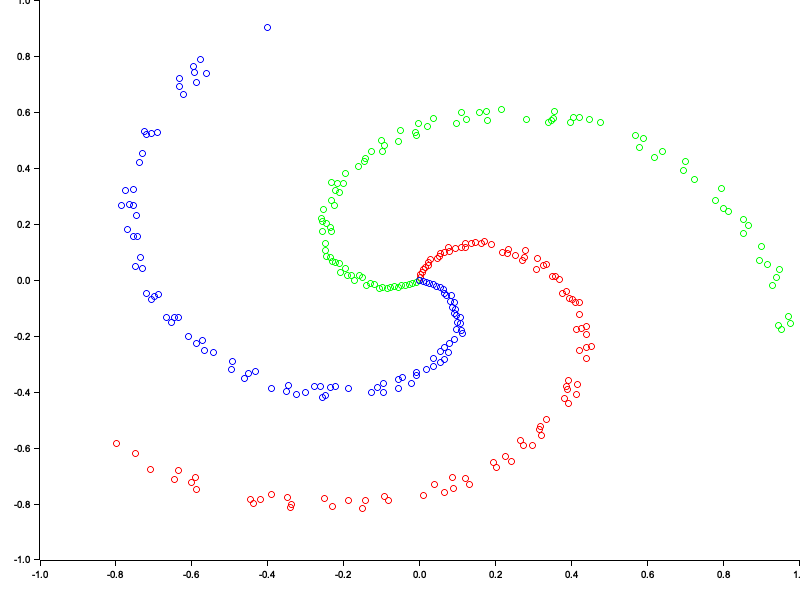
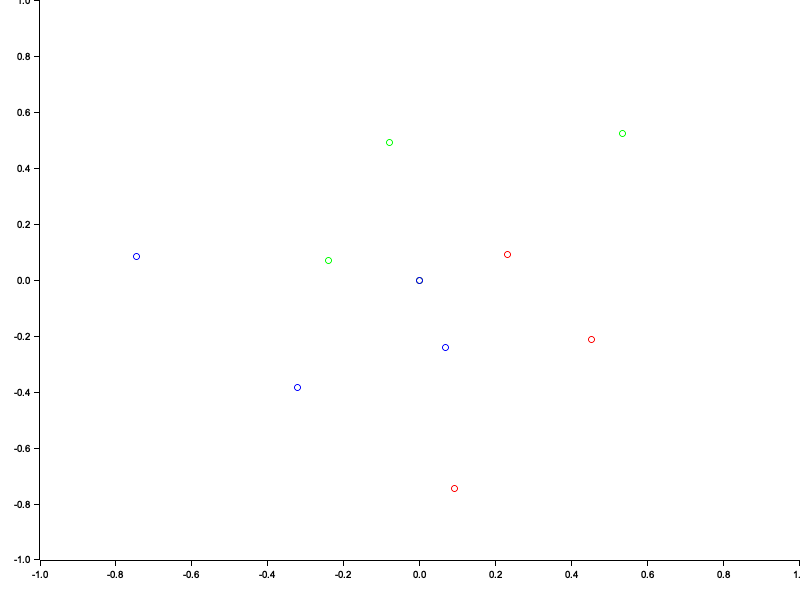
Fix input size + variable input size

diff --git a/src-tauri/src/main.rs b/src-tauri/src/main.rs
@@ -1,10 +1,11 @@
 // Prevents additional console window on Windows in release, DO NOT REMOVE!!
 #![cfg_attr(not(debug_assertions), windows_subsystem = "windows")]
 
-
+use std::env;
 mod constants;
 mod sine;
 
+use std::iter::zip;
 use std::ops::Mul;
 use avmlib::constants::*;
 use avmlib::sine::*;
@@ -50,14 +51,20 @@ impl DenseLayer{
             n_neurons : n_neurons,
 
             //TODO : Put this in tests !
-/*
-            weights : DMatrix::from_row_slice(n_neurons, n_inputs,  &[
-                0.2, 0.8, -0.5, 1.0,
-                0.5, -0.91, 0.26, -0.5,
-                -0.26, -0.27, 0.17, 0.87
-            ]),
-            biases : RowDVector::from_vec(vec![2.0, 3.0, 0.5]),
-*/
+            /*
+                        let inputs = DMatrix::from_row_slice(batch_size,n_samples_inputs, &[
+                        1.0, 2.0, 3.0, 2.5,
+                        2.0, 5.0, -1.0, 2.0,
+                        -1.5, 2.7, 3.3, -0.8,
+                        ]);
+                        println!("inputs : {}", inputs);
+                        weights : DMatrix::from_row_slice(n_neurons, n_inputs,  &[
+                            0.2, 0.8, -0.5, 1.0,
+                            0.5, -0.91, 0.26, -0.5,
+                            -0.26, -0.27, 0.17, 0.87
+                        ]),
+                        biases : RowDVector::from_vec(vec![2.0, 3.0, 0.5]),
+            */
             weights: DMatrix::new_random(n_neurons, n_inputs),
             biases: RowDVector::zeros(n_neurons),
         }
@@ -93,36 +100,53 @@ impl DenseLayer{
     }
 }
 
-/*
-fn main() {
 
+fn main() {
+    env::set_var("RUST_BACKTRACE", "1");
     println!("Start");
 
-    let samples = 1000;
-    let (x, y) = create_data(samples);
-    println!("X: {:?}", x);
-    println!("y: {:?}", y);
 
-
-
-    let n_samples_inputs = 4;
+    //TODO : FOR NOW BATCH_SIZE == n_samples == 100 -> 2 batchs of 50 ?
+    let n_samples_inputs = 2;
     let n_neurons = 2;
-    let batch_size = 3;
+    let n_class = 3;
+    let n_generated_samples_dataset = 12;
+
+    let batch_size = n_generated_samples_dataset;
+
+    //This will create n samples per class
+    let (x, y, c) = create_data_spiral(n_generated_samples_dataset,n_class);
+    let _  = visualize(&x, &y, &c);
+    println!("X: {:?}", &x);
+    println!("y: {:?}", &y);
+    println!("c: {:?}", &c);
+
+
+
+    //let zipped : Vec<(&f64, &f64)> = x.iter().zip(y.iter()).collect();
+    let vecofvec : Vec<&Vec<f64>> = vec![&x, &y];
+    assert_eq!(vecofvec.len(), n_samples_inputs, "The number of sample must be the same as the number of element in the vector");
+
+    println!("VecOfvec{:?}", vecofvec);
+
+
+    let mut inputs = DMatrix::<Precision>::zeros(n_samples_inputs, batch_size);
+    for i in 0..n_samples_inputs{
+        //TODO : DONT COPY !
+        let row: RowDVector<Precision> =  RowDVector::from_vec( vecofvec[i].to_vec());
+        let (shapex, shapey) = row.shape();
+        //println!("{}, {}", shapex, shapey);
+        inputs.set_row(i, &row);
+    }
+    inputs = inputs.transpose();
+    println!("Inputs{}", inputs);
 
     //n_neurons MUST BE == WITH input_batch_size
-    //TODO : put in tests
-    let inputs = DMatrix::from_row_slice(batch_size,n_samples_inputs, &[
-        1.0, 2.0, 3.0, 2.5,
-        2.0, 5.0, -1.0, 2.0,
-        -1.5, 2.7, 3.3, -0.8,
-    ]);
-
-    println!("inputs : {}", inputs);
 
     //atm the batch size is linked to the number of neurons
     let layer1 = DenseLayer::new( batch_size, n_samples_inputs, n_neurons); //3 rows, 4 cols
     layer1.forward(&inputs);
-    */
+
     /*
     tauri::Builder::default()
         .invoke_handler(tauri::generate_handler![greet])
@@ -130,11 +154,4 @@ fn main() {
         .expect("error while running tauri application");
      */
 
-//}
-
-
-
-fn main() {
-    let (x, y, c) = create_data_spiral(1,2);
-    let _  = visualize(x, y, c);
 }

diff --git a/src-tauri/src/spiral.rs b/src-tauri/src/spiral.rs
@@ -5,22 +5,27 @@ use plotters::prelude::*;
 
 pub fn create_data_spiral(samples: usize, classes: usize) -> (Vec<f64>, Vec<f64>, Vec<u32>) /* -> (Vec<(f64, f64)>, Vec<u8>)*/{
 
-    const N: usize = 100; // number of points per class
-    const D: usize = 2; // dimensionality
-    const K: usize = 3; // number of classes
+    let n = samples / classes;
+    //println!("{}", n);
+    assert_eq!(samples % classes, 0, "The number of samples must be a multiple of the number of class");
 
-    let mut x = vec![0.0; N * K];
-    let mut y = vec![0.0; N * K];
-    let mut c = vec![0; N * K];
+    let mut x = vec![0.0; samples];
+    let mut y = vec![0.0; samples];
+    let mut c = vec![0; samples];
 
-    for j in 0..K {
-        let ix = N * j..N * (j+1);
-        let r = (0..N).map(|n| n as f64 / N as f64);
+    for j in 0..classes {
+        //Range : 0->33, 33->66, 66->99
+        let ix = n * j..n * (j+1);
+
+        //Map
+        let r = (0..n).map(|n2| n2 as f64 / n as f64);
+
         let mut rng = rand::thread_rng();
-        let t = (0..N)
-            .map(|n| {
+
+        let t = (0..samples)
+            .map(|n2| {
                 let t = j as f64 * 4.0 + rng.gen::<f64>() * 0.2;
-                t + n as f64 * 4.0 / N as f64
+                t + n2 as f64 * 4.0 / n as f64
             });
 
         for (i, (r_val, t_val)) in r.zip(t).enumerate() {
@@ -30,6 +35,32 @@ pub fn create_data_spiral(samples: usize, classes: usize) -> (Vec<f64>, Vec<f64>
             c[index] = j as u32;
         }
     }
+
+
+    /*
+    let mut x = vec![0.0; samples*classes];
+    let mut y = vec![0.0; samples*classes];
+    let mut c = vec![0; samples*classes];
+
+    for j in 0..classes {
+        let ix = samples * j..samples * (j+1);
+        let r = (0..samples).map(|n| n as f64 / samples as f64);
+        let mut rng = rand::thread_rng();
+        let t = (0..samples)
+            .map(|n| {
+                let t = j as f64 * 4.0 + rng.gen::<f64>() * 0.2;
+                t + n as f64 * 4.0 / samples as f64
+            });
+
+        for (i, (r_val, t_val)) in r.zip(t).enumerate() {
+            let index = ix.start + i;
+            x[index] = r_val * f64::sin(t_val);
+            y[index] = r_val * f64::cos(t_val);
+            c[index] = j as u32;
+        }
+    }
+    */
+    /*
     println!("x{:?}", x);
     println!("y{:?}", y);
     println!("c{:?}", c);
@@ -37,13 +68,14 @@ pub fn create_data_spiral(samples: usize, classes: usize) -> (Vec<f64>, Vec<f64>
     println!("{}", x.len());
     println!("{}", y.len());
     println!("{}", c.len());
+    */
     (x, y, c)
 
 
 }
 
 
-pub fn visualize(x: Vec<f64>, y: Vec<f64>, c: Vec<u32>) -> Result<(), Box<dyn std::error::Error>> {
+pub fn visualize(x: &Vec<f64>, y: &Vec<f64>, c: &Vec<u32>) -> Result<(), Box<dyn std::error::Error>> {
     // Visualize the data
     let root =
         BitMapBackend::new("plots/scatter.png", (800, 600)).into_drawing_area();
@@ -54,7 +86,7 @@ pub fn visualize(x: Vec<f64>, y: Vec<f64>, c: Vec<u32>) -> Result<(), Box<dyn st
     let y_min = -1.0;
     let y_max = 1.0;
 
-    let ok : Vec<(&f64, &f64, &u32)> = izip!(&x, &y, &c).collect();
+    let ok : Vec<(&f64, &f64, &u32)> = izip!(x, y, c).collect();
 
     let mut chart = ChartBuilder::on(&root)
         .x_label_area_size(40)
